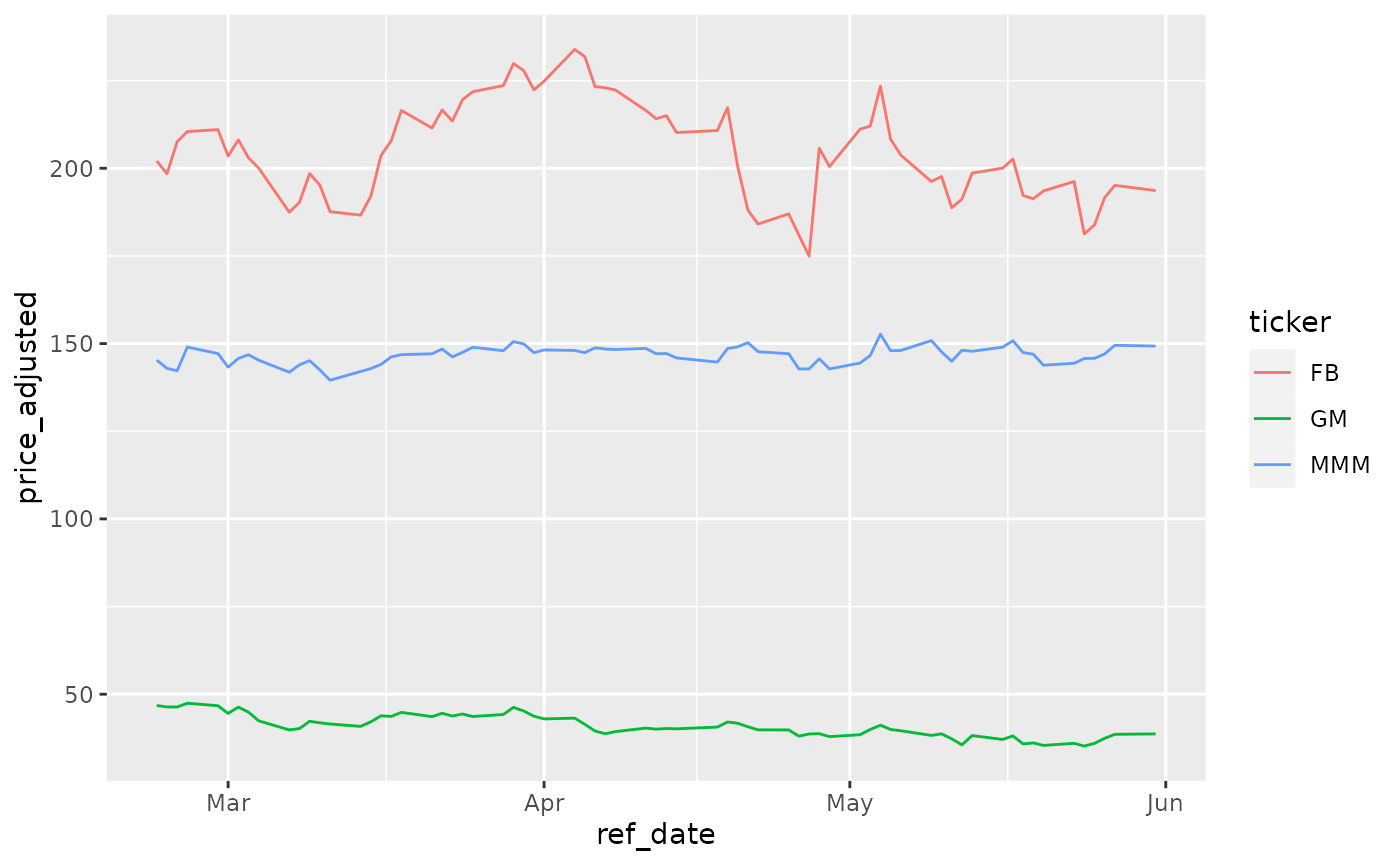
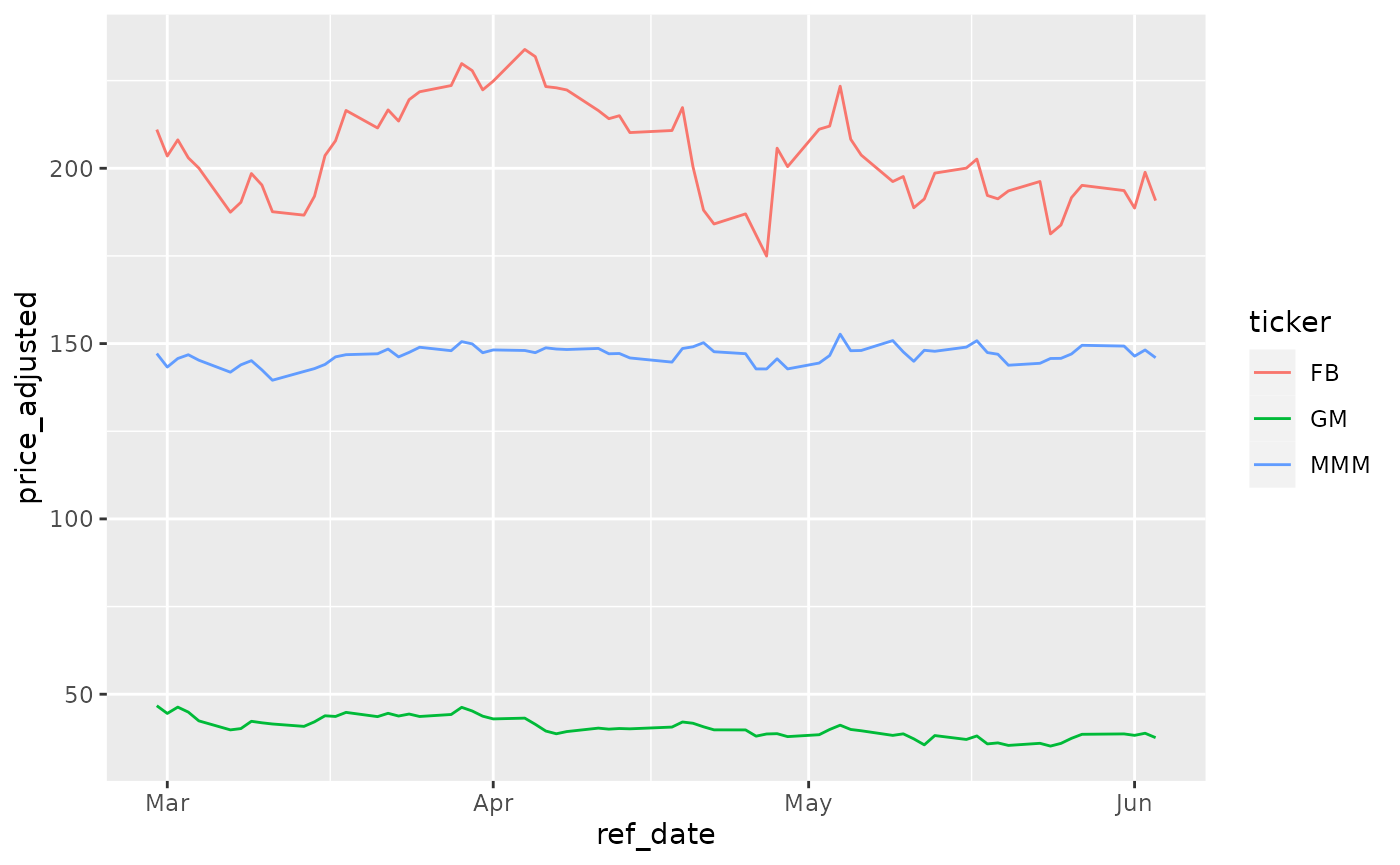
Deploying to gh-pages from @ msperlin/yfR@9765e2a44a16c0cefd1f0ff8df61d747e32fc0b1 🚀

diff --git a/articles/getting-started.html b/articles/getting-started.html
@@ -83,7 +83,7 @@
       <img src="../logo.png" class="logo" alt=""><h1>Getting Started</h1>
                         <h4 data-toc-skip class="author">Marcelo Perlin</h4>
             
-            <h4 data-toc-skip class="date">2022-06-01</h4>
+            <h4 data-toc-skip class="date">2022-06-06</h4>
       
       <small class="dont-index">Source: <a href="https://github.com/msperlin/yfR/blob/HEAD/vignettes/getting-started.Rmd" class="external-link"><code>vignettes/getting-started.Rmd</code></a></small>
       <div class="d-none name"><code>getting-started.Rmd</code></div>
@@ -120,19 +120,19 @@
                 first_date <span class="op">=</span> <span class="va">first_date</span>,
                 last_date <span class="op">=</span> <span class="va">last_date</span><span class="op">)</span></code></pre></div>
 <pre><code><span class="co">## </span></code></pre>
-<pre><code><span class="co">## ── <span style="font-weight: bold;">Running yfR for 1 stocks | 2022-05-02 --&gt; 2022-06-01 (30 days)</span> ──</span></code></pre>
+<pre><code><span class="co">## ── <span style="font-weight: bold;">Running yfR for 1 stocks | 2022-05-07 --&gt; 2022-06-06 (30 days)</span> ──</span></code></pre>
 <pre><code><span class="co">## </span></code></pre>
 <pre><code><span class="co">## <span style="color: #00BBBB;">ℹ</span> Downloading data for benchmark ticker ^GSPC</span></code></pre>
 <pre><code><span class="co">## <span style="color: #00BBBB;">ℹ</span> (1/1) Fetching data for FB</span></code></pre>
 <pre><code><span class="co">## <span style="color: #BBBB00;">!</span>  - not cached</span></code></pre>
 <pre><code><span class="co">## <span style="color: #00BB00;">✔</span>  - cache saved successfully</span></code></pre>
-<pre><code><span class="co">## <span style="color: #00BB00;">✔</span>  - got 21 valid rows (2022-05-02 --&gt; 2022-05-31)</span></code></pre>
-<pre><code><span class="co">## <span style="color: #00BB00;">✔</span>  - got 100% of valid prices -- Looking good!</span></code></pre>
+<pre><code><span class="co">## <span style="color: #00BB00;">✔</span>  - got 19 valid rows (2022-05-09 --&gt; 2022-06-03)</span></code></pre>
+<pre><code><span class="co">## <span style="color: #00BB00;">✔</span>  - got 100% of valid prices -- All OK!</span></code></pre>
 <pre><code><span class="co">## <span style="color: #00BBBB;">ℹ</span> Binding price data</span></code></pre>
 <pre><code><span class="co">## </span></code></pre>
 <pre><code><span class="co">## <span style="color: #00BBBB;">──</span> <span style="font-weight: bold;">Diagnostics</span> <span style="color: #00BBBB;">─────────────────────────────────────────────────────────────────</span></span></code></pre>
-<pre><code><span class="co">## <span style="color: #00BB00;">✔</span> Returned dataframe with 21 rows</span></code></pre>
-<pre><code><span class="co">## <span style="color: #00BB00;">✔</span> Using 6.0 kB at /tmp/RtmptW53SL/yf_cache for cache files</span></code></pre>
+<pre><code><span class="co">## <span style="color: #00BB00;">✔</span> Returned dataframe with 19 rows</span></code></pre>
+<pre><code><span class="co">## <span style="color: #00BB00;">✔</span> Using 5.6 kB at /tmp/RtmpqzBOwF/yf_cache for cache files</span></code></pre>
 <pre><code><span class="co">## <span style="color: #00BBBB;">ℹ</span> Out of 1 tickers, you got 1</span></code></pre>
 <pre><code><span class="co">## <span style="color: #00BB00;">✔</span> You got data on 100% of requested tickers</span></code></pre>
 <div class="sourceCode" id="cb18"><pre class="downlit sourceCode r">
@@ -141,12 +141,12 @@
 <pre><code><span class="co">## <span style="color: #949494;"># A tibble: 6 × 11</span></span>
 <span class="co">##   ticker ref_date   price_open price_high price_low price_close   volume</span>
 <span class="co">##   <span style="color: #949494; font-style: italic;">&lt;chr&gt;</span>  <span style="color: #949494; font-style: italic;">&lt;date&gt;</span>          <span style="color: #949494; font-style: italic;">&lt;dbl&gt;</span>      <span style="color: #949494; font-style: italic;">&lt;dbl&gt;</span>     <span style="color: #949494; font-style: italic;">&lt;dbl&gt;</span>       <span style="color: #949494; font-style: italic;">&lt;dbl&gt;</span>    <span style="color: #949494; font-style: italic;">&lt;dbl&gt;</span></span>
-<span class="co">## <span style="color: #BCBCBC;">1</span> FB     2022-05-02       201.       212.      201.        211. 49<span style="text-decoration: underline;">915</span>300</span>
-<span class="co">## <span style="color: #BCBCBC;">2</span> FB     2022-05-03       210.       215.      208.        212. 41<span style="text-decoration: underline;">556</span>300</span>
-<span class="co">## <span style="color: #BCBCBC;">3</span> FB     2022-05-04       211.       224.      207.        223. 41<span style="text-decoration: underline;">375</span>900</span>
-<span class="co">## <span style="color: #BCBCBC;">4</span> FB     2022-05-05       219.       220.      206.        208. 41<span style="text-decoration: underline;">129</span>200</span>
-<span class="co">## <span style="color: #BCBCBC;">5</span> FB     2022-05-06       207.       209.      201.        204. 34<span style="text-decoration: underline;">733</span>600</span>
-<span class="co">## <span style="color: #BCBCBC;">6</span> FB     2022-05-09       200.       203.      196.        196. 36<span style="text-decoration: underline;">303</span>200</span>
+<span class="co">## <span style="color: #BCBCBC;">1</span> FB     2022-05-09       200.       203.      196.        196. 36<span style="text-decoration: underline;">303</span>200</span>
+<span class="co">## <span style="color: #BCBCBC;">2</span> FB     2022-05-10       200.       203.      194.        198. 34<span style="text-decoration: underline;">452</span>500</span>
+<span class="co">## <span style="color: #BCBCBC;">3</span> FB     2022-05-11       196.       201.      188.        189. 31<span style="text-decoration: underline;">153</span>400</span>
+<span class="co">## <span style="color: #BCBCBC;">4</span> FB     2022-05-12       187.       198.      185.        191. 38<span style="text-decoration: underline;">262</span>200</span>
+<span class="co">## <span style="color: #BCBCBC;">5</span> FB     2022-05-13       193.       200.      191.        199. 24<span style="text-decoration: underline;">549</span>800</span>
+<span class="co">## <span style="color: #BCBCBC;">6</span> FB     2022-05-16       197.       205.      196.        200. 27<span style="text-decoration: underline;">112</span>600</span>
 <span class="co">## <span style="color: #949494;"># … with 4 more variables: price_adjusted &lt;dbl&gt;, ret_adjusted_prices &lt;dbl&gt;,</span></span>
 <span class="co">## <span style="color: #949494;">#   ret_closing_prices &lt;dbl&gt;, cumret_adjusted_prices &lt;dbl&gt;</span></span></code></pre>
 </div>
@@ -165,29 +165,29 @@
                          first_date <span class="op">=</span> <span class="va">first_date</span>,
                          last_date <span class="op">=</span> <span class="va">last_date</span><span class="op">)</span></code></pre></div>
 <pre><code><span class="co">## </span></code></pre>
-<pre><code><span class="co">## ── <span style="font-weight: bold;">Running yfR for 3 stocks | 2022-02-21 --&gt; 2022-06-01 (100 days)</span> ──</span></code></pre>
+<pre><code><span class="co">## ── <span style="font-weight: bold;">Running yfR for 3 stocks | 2022-02-26 --&gt; 2022-06-06 (100 days)</span> ──</span></code></pre>
 <pre><code><span class="co">## </span></code></pre>
 <pre><code><span class="co">## <span style="color: #00BBBB;">ℹ</span> Downloading data for benchmark ticker ^GSPC</span></code></pre>
 <pre><code><span class="co">## <span style="color: #00BBBB;">ℹ</span> (1/3) Fetching data for FB</span></code></pre>
-<pre><code><span class="co">## <span style="color: #00BB00;">✔</span>  - found cache file (2022-05-02 --&gt; 2022-05-31)</span></code></pre>
+<pre><code><span class="co">## <span style="color: #00BB00;">✔</span>  - found cache file (2022-05-09 --&gt; 2022-06-03)</span></code></pre>
 <pre><code><span class="co">## <span style="color: #BBBB00;">!</span>  - need new data (cache doesnt match query)</span></code></pre>
-<pre><code><span class="co">## <span style="color: #00BB00;">✔</span>  - got 69 valid rows (2022-02-22 --&gt; 2022-05-31)</span></code></pre>
-<pre><code><span class="co">## <span style="color: #00BB00;">✔</span>  - got 100% of valid prices -- Good job runner!</span></code></pre>
+<pre><code><span class="co">## <span style="color: #00BB00;">✔</span>  - got 68 valid rows (2022-02-28 --&gt; 2022-06-03)</span></code></pre>
+<pre><code><span class="co">## <span style="color: #00BB00;">✔</span>  - got 100% of valid prices -- Got it!</span></code></pre>
 <pre><code><span class="co">## <span style="color: #00BBBB;">ℹ</span> (2/3) Fetching data for GM</span></code></pre>
 <pre><code><span class="co">## <span style="color: #BBBB00;">!</span>  - not cached</span></code></pre>
 <pre><code><span class="co">## <span style="color: #00BB00;">✔</span>  - cache saved successfully</span></code></pre>
-<pre><code><span class="co">## <span style="color: #00BB00;">✔</span>  - got 69 valid rows (2022-02-22 --&gt; 2022-05-31)</span></code></pre>
-<pre><code><span class="co">## <span style="color: #00BB00;">✔</span>  - got 100% of valid prices -- All OK!</span></code></pre>
+<pre><code><span class="co">## <span style="color: #00BB00;">✔</span>  - got 68 valid rows (2022-02-28 --&gt; 2022-06-03)</span></code></pre>
+<pre><code><span class="co">## <span style="color: #00BB00;">✔</span>  - got 100% of valid prices -- Time for some tea?</span></code></pre>
 <pre><code><span class="co">## <span style="color: #00BBBB;">ℹ</span> (3/3) Fetching data for MMM</span></code></pre>
 <pre><code><span class="co">## <span style="color: #BBBB00;">!</span>  - not cached</span></code></pre>
 <pre><code><span class="co">## <span style="color: #00BB00;">✔</span>  - cache saved successfully</span></code></pre>
-<pre><code><span class="co">## <span style="color: #00BB00;">✔</span>  - got 69 valid rows (2022-02-22 --&gt; 2022-05-31)</span></code></pre>
-<pre><code><span class="co">## <span style="color: #00BB00;">✔</span>  - got 100% of valid prices -- All OK!</span></code></pre>
+<pre><code><span class="co">## <span style="color: #00BB00;">✔</span>  - got 68 valid rows (2022-02-28 --&gt; 2022-06-03)</span></code></pre>
+<pre><code><span class="co">## <span style="color: #00BB00;">✔</span>  - got 100% of valid prices -- Looking good!</span></code></pre>
 <pre><code><span class="co">## <span style="color: #00BBBB;">ℹ</span> Binding price data</span></code></pre>
 <pre><code><span class="co">## </span></code></pre>
 <pre><code><span class="co">## <span style="color: #00BBBB;">──</span> <span style="font-weight: bold;">Diagnostics</span> <span style="color: #00BBBB;">─────────────────────────────────────────────────────────────────</span></span></code></pre>
-<pre><code><span class="co">## <span style="color: #00BB00;">✔</span> Returned dataframe with 207 rows</span></code></pre>
-<pre><code><span class="co">## <span style="color: #00BB00;">✔</span> Using 30.5 kB at /tmp/RtmptW53SL/yf_cache for cache files</span></code></pre>
+<pre><code><span class="co">## <span style="color: #00BB00;">✔</span> Returned dataframe with 204 rows</span></code></pre>
+<pre><code><span class="co">## <span style="color: #00BB00;">✔</span> Using 30.1 kB at /tmp/RtmpqzBOwF/yf_cache for cache files</span></code></pre>
 <pre><code><span class="co">## <span style="color: #00BBBB;">ℹ</span> Out of 3 tickers, you got 3</span></code></pre>
 <pre><code><span class="co">## <span style="color: #00BB00;">✔</span> You got data on 100% of requested tickers</span></code></pre>
 <div class="sourceCode" id="cb47"><pre class="downlit sourceCode r">
@@ -223,19 +223,19 @@
                     freq_data <span class="op">=</span> <span class="st">'daily'</span><span class="op">)</span> <span class="op"><a href="../reference/pipe.html">%&gt;%</a></span>
   <span class="fu"><a href="https://dplyr.tidyverse.org/reference/mutate.html" class="external-link">mutate</a></span><span class="op">(</span>freq <span class="op">=</span> <span class="st">'daily'</span><span class="op">)</span></code></pre></div>
 <pre><code><span class="co">## </span></code></pre>
-<pre><code><span class="co">## ── <span style="font-weight: bold;">Running yfR for 1 stocks | 2010-01-01 --&gt; 2022-06-01 (4534 days)</span> ──</span></code></pre>
+<pre><code><span class="co">## ── <span style="font-weight: bold;">Running yfR for 1 stocks | 2010-01-01 --&gt; 2022-06-06 (4539 days)</span> ──</span></code></pre>
 <pre><code><span class="co">## </span></code></pre>
 <pre><code><span class="co">## <span style="color: #00BBBB;">ℹ</span> Downloading data for benchmark ticker ^GSPC</span></code></pre>
 <pre><code><span class="co">## <span style="color: #00BBBB;">ℹ</span> (1/1) Fetching data for GE</span></code></pre>
 <pre><code><span class="co">## <span style="color: #BBBB00;">!</span>  - not cached</span></code></pre>
 <pre><code><span class="co">## <span style="color: #00BB00;">✔</span>  - cache saved successfully</span></code></pre>
-<pre><code><span class="co">## <span style="color: #00BB00;">✔</span>  - got 3124 valid rows (2010-01-04 --&gt; 2022-05-31)</span></code></pre>
-<pre><code><span class="co">## <span style="color: #00BB00;">✔</span>  - got 100% of valid prices -- Youre doing good!</span></code></pre>
+<pre><code><span class="co">## <span style="color: #00BB00;">✔</span>  - got 3127 valid rows (2010-01-04 --&gt; 2022-06-03)</span></code></pre>
+<pre><code><span class="co">## <span style="color: #00BB00;">✔</span>  - got 100% of valid prices -- Time for some tea?</span></code></pre>
 <pre><code><span class="co">## <span style="color: #00BBBB;">ℹ</span> Binding price data</span></code></pre>
 <pre><code><span class="co">## </span></code></pre>
 <pre><code><span class="co">## <span style="color: #00BBBB;">──</span> <span style="font-weight: bold;">Diagnostics</span> <span style="color: #00BBBB;">─────────────────────────────────────────────────────────────────</span></span></code></pre>
-<pre><code><span class="co">## <span style="color: #00BB00;">✔</span> Returned dataframe with 3124 rows</span></code></pre>
-<pre><code><span class="co">## <span style="color: #00BB00;">✔</span> Using 642.9 kB at /tmp/RtmptW53SL/yf_cache for cache files</span></code></pre>
+<pre><code><span class="co">## <span style="color: #00BB00;">✔</span> Returned dataframe with 3127 rows</span></code></pre>
+<pre><code><span class="co">## <span style="color: #00BB00;">✔</span> Using 643.2 kB at /tmp/RtmpqzBOwF/yf_cache for cache files</span></code></pre>
 <pre><code><span class="co">## <span style="color: #00BBBB;">ℹ</span> Out of 1 tickers, you got 1</span></code></pre>
 <pre><code><span class="co">## <span style="color: #00BB00;">✔</span> You got data on 100% of requested tickers</span></code></pre>
 <div class="sourceCode" id="cb69"><pre class="downlit sourceCode r">
@@ -244,18 +244,18 @@
                     freq_data <span class="op">=</span> <span class="st">'weekly'</span><span class="op">)</span> <span class="op"><a href="../reference/pipe.html">%&gt;%</a></span>
   <span class="fu"><a href="https://dplyr.tidyverse.org/reference/mutate.html" class="external-link">mutate</a></span><span class="op">(</span>freq <span class="op">=</span> <span class="st">'weekly'</span><span class="op">)</span></code></pre></div>
 <pre><code><span class="co">## </span></code></pre>
-<pre><code><span class="co">## ── <span style="font-weight: bold;">Running yfR for 1 stocks | 2010-01-01 --&gt; 2022-06-01 (4534 days)</span> ──</span></code></pre>
+<pre><code><span class="co">## ── <span style="font-weight: bold;">Running yfR for 1 stocks | 2010-01-01 --&gt; 2022-06-06 (4539 days)</span> ──</span></code></pre>
 <pre><code><span class="co">## </span></code></pre>
 <pre><code><span class="co">## <span style="color: #00BBBB;">ℹ</span> Downloading data for benchmark ticker ^GSPC</span></code></pre>
 <pre><code><span class="co">## <span style="color: #00BBBB;">ℹ</span> (1/1) Fetching data for GE</span></code></pre>
-<pre><code><span class="co">## <span style="color: #00BB00;">✔</span>  - found cache file (2010-01-04 --&gt; 2022-05-31)</span></code></pre>
-<pre><code><span class="co">## <span style="color: #00BB00;">✔</span>  - got 3124 valid rows (2010-01-04 --&gt; 2022-05-31)</span></code></pre>
-<pre><code><span class="co">## <span style="color: #00BB00;">✔</span>  - got 100% of valid prices -- Got it!</span></code></pre>
+<pre><code><span class="co">## <span style="color: #00BB00;">✔</span>  - found cache file (2010-01-04 --&gt; 2022-06-03)</span></code></pre>
+<pre><code><span class="co">## <span style="color: #00BB00;">✔</span>  - got 3127 valid rows (2010-01-04 --&gt; 2022-06-03)</span></code></pre>
+<pre><code><span class="co">## <span style="color: #00BB00;">✔</span>  - got 100% of valid prices -- All OK!</span></code></pre>
 <pre><code><span class="co">## <span style="color: #00BBBB;">ℹ</span> Binding price data</span></code></pre>
 <pre><code><span class="co">## </span></code></pre>
 <pre><code><span class="co">## <span style="color: #00BBBB;">──</span> <span style="font-weight: bold;">Diagnostics</span> <span style="color: #00BBBB;">─────────────────────────────────────────────────────────────────</span></span></code></pre>
 <pre><code><span class="co">## <span style="color: #00BB00;">✔</span> Returned dataframe with 648 rows</span></code></pre>
-<pre><code><span class="co">## <span style="color: #00BB00;">✔</span> Using 642.8 kB at /tmp/RtmptW53SL/yf_cache for cache files</span></code></pre>
+<pre><code><span class="co">## <span style="color: #00BB00;">✔</span> Using 643.1 kB at /tmp/RtmpqzBOwF/yf_cache for cache files</span></code></pre>
 <pre><code><span class="co">## <span style="color: #00BBBB;">ℹ</span> Out of 1 tickers, you got 1</span></code></pre>
 <pre><code><span class="co">## <span style="color: #00BB00;">✔</span> You got data on 100% of requested tickers</span></code></pre>
 <div class="sourceCode" id="cb85"><pre class="downlit sourceCode r">
@@ -264,18 +264,18 @@
                      freq_data <span class="op">=</span> <span class="st">'monthly'</span><span class="op">)</span> <span class="op"><a href="../reference/pipe.html">%&gt;%</a></span>
   <span class="fu"><a href="https://dplyr.tidyverse.org/reference/mutate.html" class="external-link">mutate</a></span><span class="op">(</span>freq <span class="op">=</span> <span class="st">'monthly'</span><span class="op">)</span></code></pre></div>
 <pre><code><span class="co">## </span></code></pre>
-<pre><code><span class="co">## ── <span style="font-weight: bold;">Running yfR for 1 stocks | 2010-01-01 --&gt; 2022-06-01 (4534 days)</span> ──</span></code></pre>
+<pre><code><span class="co">## ── <span style="font-weight: bold;">Running yfR for 1 stocks | 2010-01-01 --&gt; 2022-06-06 (4539 days)</span> ──</span></code></pre>
 <pre><code><span class="co">## </span></code></pre>
 <pre><code><span class="co">## <span style="color: #00BBBB;">ℹ</span> Downloading data for benchmark ticker ^GSPC</span></code></pre>
 <pre><code><span class="co">## <span style="color: #00BBBB;">ℹ</span> (1/1) Fetching data for GE</span></code></pre>
-<pre><code><span class="co">## <span style="color: #00BB00;">✔</span>  - found cache file (2010-01-04 --&gt; 2022-05-31)</span></code></pre>
-<pre><code><span class="co">## <span style="color: #00BB00;">✔</span>  - got 3124 valid rows (2010-01-04 --&gt; 2022-05-31)</span></code></pre>
+<pre><code><span class="co">## <span style="color: #00BB00;">✔</span>  - found cache file (2010-01-04 --&gt; 2022-06-03)</span></code></pre>
+<pre><code><span class="co">## <span style="color: #00BB00;">✔</span>  - got 3127 valid rows (2010-01-04 --&gt; 2022-06-03)</span></code></pre>
 <pre><code><span class="co">## <span style="color: #00BB00;">✔</span>  - got 100% of valid prices -- All OK!</span></code></pre>
 <pre><code><span class="co">## <span style="color: #00BBBB;">ℹ</span> Binding price data</span></code></pre>
 <pre><code><span class="co">## </span></code></pre>
 <pre><code><span class="co">## <span style="color: #00BBBB;">──</span> <span style="font-weight: bold;">Diagnostics</span> <span style="color: #00BBBB;">─────────────────────────────────────────────────────────────────</span></span></code></pre>
-<pre><code><span class="co">## <span style="color: #00BB00;">✔</span> Returned dataframe with 149 rows</span></code></pre>
-<pre><code><span class="co">## <span style="color: #00BB00;">✔</span> Using 642.8 kB at /tmp/RtmptW53SL/yf_cache for cache files</span></code></pre>
+<pre><code><span class="co">## <span style="color: #00BB00;">✔</span> Returned dataframe with 150 rows</span></code></pre>
+<pre><code><span class="co">## <span style="color: #00BB00;">✔</span> Using 643.1 kB at /tmp/RtmpqzBOwF/yf_cache for cache files</span></code></pre>
 <pre><code><span class="co">## <span style="color: #00BBBB;">ℹ</span> Out of 1 tickers, you got 1</span></code></pre>
 <pre><code><span class="co">## <span style="color: #00BB00;">✔</span> You got data on 100% of requested tickers</span></code></pre>
 <div class="sourceCode" id="cb101"><pre class="downlit sourceCode r">
@@ -284,18 +284,18 @@
                     freq_data <span class="op">=</span> <span class="st">'yearly'</span><span class="op">)</span> <span class="op"><a href="../reference/pipe.html">%&gt;%</a></span>
   <span class="fu"><a href="https://dplyr.tidyverse.org/reference/mutate.html" class="external-link">mutate</a></span><span class="op">(</span>freq <span class="op">=</span> <span class="st">'yearly'</span><span class="op">)</span></code></pre></div>
 <pre><code><span class="co">## </span></code></pre>
-<pre><code><span class="co">## ── <span style="font-weight: bold;">Running yfR for 1 stocks | 2010-01-01 --&gt; 2022-06-01 (4534 days)</span> ──</span></code></pre>
+<pre><code><span class="co">## ── <span style="font-weight: bold;">Running yfR for 1 stocks | 2010-01-01 --&gt; 2022-06-06 (4539 days)</span> ──</span></code></pre>
 <pre><code><span class="co">## </span></code></pre>
 <pre><code><span class="co">## <span style="color: #00BBBB;">ℹ</span> Downloading data for benchmark ticker ^GSPC</span></code></pre>
 <pre><code><span class="co">## <span style="color: #00BBBB;">ℹ</span> (1/1) Fetching data for GE</span></code></pre>
-<pre><code><span class="co">## <span style="color: #00BB00;">✔</span>  - found cache file (2010-01-04 --&gt; 2022-05-31)</span></code></pre>
-<pre><code><span class="co">## <span style="color: #00BB00;">✔</span>  - got 3124 valid rows (2010-01-04 --&gt; 2022-05-31)</span></code></pre>
-<pre><code><span class="co">## <span style="color: #00BB00;">✔</span>  - got 100% of valid prices -- Got it!</span></code></pre>
+<pre><code><span class="co">## <span style="color: #00BB00;">✔</span>  - found cache file (2010-01-04 --&gt; 2022-06-03)</span></code></pre>
+<pre><code><span class="co">## <span style="color: #00BB00;">✔</span>  - got 3127 valid rows (2010-01-04 --&gt; 2022-06-03)</span></code></pre>
+<pre><code><span class="co">## <span style="color: #00BB00;">✔</span>  - got 100% of valid prices -- Boa!</span></code></pre>
 <pre><code><span class="co">## <span style="color: #00BBBB;">ℹ</span> Binding price data</span></code></pre>
 <pre><code><span class="co">## </span></code></pre>
 <pre><code><span class="co">## <span style="color: #00BBBB;">──</span> <span style="font-weight: bold;">Diagnostics</span> <span style="color: #00BBBB;">─────────────────────────────────────────────────────────────────</span></span></code></pre>
 <pre><code><span class="co">## <span style="color: #00BB00;">✔</span> Returned dataframe with 13 rows</span></code></pre>
-<pre><code><span class="co">## <span style="color: #00BB00;">✔</span> Using 642.8 kB at /tmp/RtmptW53SL/yf_cache for cache files</span></code></pre>
+<pre><code><span class="co">## <span style="color: #00BB00;">✔</span> Using 643.1 kB at /tmp/RtmpqzBOwF/yf_cache for cache files</span></code></pre>
 <pre><code><span class="co">## <span style="color: #00BBBB;">ℹ</span> Out of 1 tickers, you got 1</span></code></pre>
 <pre><code><span class="co">## <span style="color: #00BB00;">✔</span> You got data on 100% of requested tickers</span></code></pre>
 <div class="sourceCode" id="cb117"><pre class="downlit sourceCode r">
@@ -333,44 +333,44 @@
                          first_date <span class="op">=</span> <span class="va">first_date</span>,
                          last_date <span class="op">=</span> <span class="va">last_date</span><span class="op">)</span></code></pre></div>
 <pre><code><span class="co">## </span></code></pre>
-<pre><code><span class="co">## ── <span style="font-weight: bold;">Running yfR for 3 stocks | 2022-02-21 --&gt; 2022-06-01 (100 days)</span> ──</span></code></pre>
+<pre><code><span class="co">## ── <span style="font-weight: bold;">Running yfR for 3 stocks | 2022-02-26 --&gt; 2022-06-06 (100 days)</span> ──</span></code></pre>
 <pre><code><span class="co">## </span></code></pre>
 <pre><code><span class="co">## <span style="color: #00BBBB;">ℹ</span> Downloading data for benchmark ticker ^GSPC</span></code></pre>
 <pre><code><span class="co">## <span style="color: #00BBBB;">ℹ</span> (1/3) Fetching data for FB</span></code></pre>
-<pre><code><span class="co">## <span style="color: #00BB00;">✔</span>  - found cache file (2022-02-22 --&gt; 2022-05-31)</span></code></pre>
-<pre><code><span class="co">## <span style="color: #00BB00;">✔</span>  - got 69 valid rows (2022-02-22 --&gt; 2022-05-31)</span></code></pre>
-<pre><code><span class="co">## <span style="color: #00BB00;">✔</span>  - got 100% of valid prices -- Nice!</span></code></pre>
+<pre><code><span class="co">## <span style="color: #00BB00;">✔</span>  - found cache file (2022-02-28 --&gt; 2022-06-03)</span></code></pre>
+<pre><code><span class="co">## <span style="color: #00BB00;">✔</span>  - got 68 valid rows (2022-02-28 --&gt; 2022-06-03)</span></code></pre>
+<pre><code><span class="co">## <span style="color: #00BB00;">✔</span>  - got 100% of valid prices -- Got it!</span></code></pre>
 <pre><code><span class="co">## <span style="color: #00BBBB;">ℹ</span> (2/3) Fetching data for GM</span></code></pre>
-<pre><code><span class="co">## <span style="color: #00BB00;">✔</span>  - found cache file (2022-02-22 --&gt; 2022-05-31)</span></code></pre>
-<pre><code><span class="co">## <span style="color: #00BB00;">✔</span>  - got 69 valid rows (2022-02-22 --&gt; 2022-05-31)</span></code></pre>
-<pre><code><span class="co">## <span style="color: #00BB00;">✔</span>  - got 100% of valid prices -- Good stuff!</span></code></pre>
+<pre><code><span class="co">## <span style="color: #00BB00;">✔</span>  - found cache file (2022-02-28 --&gt; 2022-06-03)</span></code></pre>
+<pre><code><span class="co">## <span style="color: #00BB00;">✔</span>  - got 68 valid rows (2022-02-28 --&gt; 2022-06-03)</span></code></pre>
+<pre><code><span class="co">## <span style="color: #00BB00;">✔</span>  - got 100% of valid prices -- Got it!</span></code></pre>
 <pre><code><span class="co">## <span style="color: #00BBBB;">ℹ</span> (3/3) Fetching data for MMM</span></code></pre>
-<pre><code><span class="co">## <span style="color: #00BB00;">✔</span>  - found cache file (2022-02-22 --&gt; 2022-05-31)</span></code></pre>
-<pre><code><span class="co">## <span style="color: #00BB00;">✔</span>  - got 69 valid rows (2022-02-22 --&gt; 2022-05-31)</span></code></pre>
-<pre><code><span class="co">## <span style="color: #00BB00;">✔</span>  - got 100% of valid prices -- All OK!</span></code></pre>
+<pre><code><span class="co">## <span style="color: #00BB00;">✔</span>  - found cache file (2022-02-28 --&gt; 2022-06-03)</span></code></pre>
+<pre><code><span class="co">## <span style="color: #00BB00;">✔</span>  - got 68 valid rows (2022-02-28 --&gt; 2022-06-03)</span></code></pre>
+<pre><code><span class="co">## <span style="color: #00BB00;">✔</span>  - got 100% of valid prices -- Good stuff!</span></code></pre>
 <pre><code><span class="co">## <span style="color: #00BBBB;">ℹ</span> Binding price data</span></code></pre>
 <pre><code><span class="co">## </span></code></pre>
 <pre><code><span class="co">## <span style="color: #00BBBB;">──</span> <span style="font-weight: bold;">Diagnostics</span> <span style="color: #00BBBB;">─────────────────────────────────────────────────────────────────</span></span></code></pre>
-<pre><code><span class="co">## <span style="color: #00BB00;">✔</span> Returned dataframe with 207 rows</span></code></pre>
-<pre><code><span class="co">## <span style="color: #00BB00;">✔</span> Using 642.5 kB at /tmp/RtmptW53SL/yf_cache for cache files</span></code></pre>
+<pre><code><span class="co">## <span style="color: #00BB00;">✔</span> Returned dataframe with 204 rows</span></code></pre>
+<pre><code><span class="co">## <span style="color: #00BB00;">✔</span> Using 642.8 kB at /tmp/RtmpqzBOwF/yf_cache for cache files</span></code></pre>
 <pre><code><span class="co">## <span style="color: #00BBBB;">ℹ</span> Out of 3 tickers, you got 3</span></code></pre>
 <pre><code><span class="co">## <span style="color: #00BB00;">✔</span> You got data on 100% of requested tickers</span></code></pre>
 <div class="sourceCode" id="cb142"><pre class="downlit sourceCode r">
 <code class="sourceCode R"><span class="fu"><a href="https://rdrr.io/r/base/print.html" class="external-link">print</a></span><span class="op">(</span><span class="va">df_yf_multiple</span><span class="op">)</span></code></pre></div>
-<pre><code><span class="co">## <span style="color: #949494;"># A tibble: 207 × 11</span></span>
+<pre><code><span class="co">## <span style="color: #949494;"># A tibble: 204 × 11</span></span>
 <span class="co">##    ticker ref_date   price_open price_high price_low price_close   volume</span>
 <span class="co">##  <span style="color: #BCBCBC;">*</span> <span style="color: #949494; font-style: italic;">&lt;chr&gt;</span>  <span style="color: #949494; font-style: italic;">&lt;date&gt;</span>          <span style="color: #949494; font-style: italic;">&lt;dbl&gt;</span>      <span style="color: #949494; font-style: italic;">&lt;dbl&gt;</span>     <span style="color: #949494; font-style: italic;">&lt;dbl&gt;</span>       <span style="color: #949494; font-style: italic;">&lt;dbl&gt;</span>    <span style="color: #949494; font-style: italic;">&lt;dbl&gt;</span></span>
-<span class="co">## <span style="color: #BCBCBC;"> 1</span> FB     2022-02-22       202.       207.      200.        202. 39<span style="text-decoration: underline;">852</span>400</span>
-<span class="co">## <span style="color: #BCBCBC;"> 2</span> FB     2022-02-23       204.       207.      198.        198. 44<span style="text-decoration: underline;">481</span>400</span>
-<span class="co">## <span style="color: #BCBCBC;"> 3</span> FB     2022-02-24       191.       208.      190.        208. 49<span style="text-decoration: underline;">957</span>200</span>
-<span class="co">## <span style="color: #BCBCBC;"> 4</span> FB     2022-02-25       205.       211.      203.        210. 37<span style="text-decoration: underline;">627</span>600</span>
-<span class="co">## <span style="color: #BCBCBC;"> 5</span> FB     2022-02-28       208.       213.      207.        211. 34<span style="text-decoration: underline;">239</span>800</span>
-<span class="co">## <span style="color: #BCBCBC;"> 6</span> FB     2022-03-01       210.       212.      202.        203. 27<span style="text-decoration: underline;">094</span>900</span>
-<span class="co">## <span style="color: #BCBCBC;"> 7</span> FB     2022-03-02       205.       209.      202.        208. 29<span style="text-decoration: underline;">452</span>100</span>
-<span class="co">## <span style="color: #BCBCBC;"> 8</span> FB     2022-03-03       209.       209.      201.        203. 27<span style="text-decoration: underline;">263</span>500</span>
-<span class="co">## <span style="color: #BCBCBC;"> 9</span> FB     2022-03-04       202.       206.      199.        200. 32<span style="text-decoration: underline;">130</span>900</span>
-<span class="co">## <span style="color: #BCBCBC;">10</span> FB     2022-03-07       201.       201.      187.        187. 38<span style="text-decoration: underline;">560</span>600</span>
-<span class="co">## <span style="color: #949494;"># … with 197 more rows, and 4 more variables: price_adjusted &lt;dbl&gt;,</span></span>
+<span class="co">## <span style="color: #BCBCBC;"> 1</span> FB     2022-02-28       208.       213.      207.        211. 34<span style="text-decoration: underline;">239</span>800</span>
+<span class="co">## <span style="color: #BCBCBC;"> 2</span> FB     2022-03-01       210.       212.      202.        203. 27<span style="text-decoration: underline;">094</span>900</span>
+<span class="co">## <span style="color: #BCBCBC;"> 3</span> FB     2022-03-02       205.       209.      202.        208. 29<span style="text-decoration: underline;">452</span>100</span>
+<span class="co">## <span style="color: #BCBCBC;"> 4</span> FB     2022-03-03       209.       209.      201.        203. 27<span style="text-decoration: underline;">263</span>500</span>
+<span class="co">## <span style="color: #BCBCBC;"> 5</span> FB     2022-03-04       202.       206.      199.        200. 32<span style="text-decoration: underline;">130</span>900</span>
+<span class="co">## <span style="color: #BCBCBC;"> 6</span> FB     2022-03-07       201.       201.      187.        187. 38<span style="text-decoration: underline;">560</span>600</span>
+<span class="co">## <span style="color: #BCBCBC;"> 7</span> FB     2022-03-08       188.       197.      186.        190. 37<span style="text-decoration: underline;">508</span>100</span>
+<span class="co">## <span style="color: #BCBCBC;"> 8</span> FB     2022-03-09       196.       199.      194.        198. 31<span style="text-decoration: underline;">894</span>700</span>
+<span class="co">## <span style="color: #BCBCBC;"> 9</span> FB     2022-03-10       195.       196.      191.        195. 24<span style="text-decoration: underline;">853</span>000</span>
+<span class="co">## <span style="color: #BCBCBC;">10</span> FB     2022-03-11       193.       194.      187.        188. 34<span style="text-decoration: underline;">694</span>500</span>
+<span class="co">## <span style="color: #949494;"># … with 194 more rows, and 4 more variables: price_adjusted &lt;dbl&gt;,</span></span>
 <span class="co">## <span style="color: #949494;">#   ret_adjusted_prices &lt;dbl&gt;, ret_closing_prices &lt;dbl&gt;,</span></span>
 <span class="co">## <span style="color: #949494;">#   cumret_adjusted_prices &lt;dbl&gt;</span></span></code></pre>
 <div class="sourceCode" id="cb144"><pre class="downlit sourceCode r">
@@ -386,12 +386,12 @@
 <pre><code><span class="co">## <span style="color: #949494;"># A tibble: 6 × 4</span></span>
 <span class="co">##   ref_date      FB    GM   MMM</span>
 <span class="co">##   <span style="color: #949494; font-style: italic;">&lt;date&gt;</span>     <span style="color: #949494; font-style: italic;">&lt;dbl&gt;</span> <span style="color: #949494; font-style: italic;">&lt;dbl&gt;</span> <span style="color: #949494; font-style: italic;">&lt;dbl&gt;</span></span>
-<span class="co">## <span style="color: #BCBCBC;">1</span> 2022-02-22  202.  46.8  145.</span>
-<span class="co">## <span style="color: #BCBCBC;">2</span> 2022-02-23  198.  46.4  143.</span>
-<span class="co">## <span style="color: #BCBCBC;">3</span> 2022-02-24  208.  46.3  142.</span>
-<span class="co">## <span style="color: #BCBCBC;">4</span> 2022-02-25  210.  47.4  149.</span>
-<span class="co">## <span style="color: #BCBCBC;">5</span> 2022-02-28  211.  46.7  147.</span>
-<span class="co">## <span style="color: #BCBCBC;">6</span> 2022-03-01  203.  44.5  143.</span></code></pre>
+<span class="co">## <span style="color: #BCBCBC;">1</span> 2022-02-28  211.  46.7  147.</span>
+<span class="co">## <span style="color: #BCBCBC;">2</span> 2022-03-01  203.  44.5  143.</span>
+<span class="co">## <span style="color: #BCBCBC;">3</span> 2022-03-02  208.  46.3  146.</span>
+<span class="co">## <span style="color: #BCBCBC;">4</span> 2022-03-03  203.  44.9  147.</span>
+<span class="co">## <span style="color: #BCBCBC;">5</span> 2022-03-04  200.  42.4  145.</span>
+<span class="co">## <span style="color: #BCBCBC;">6</span> 2022-03-07  187.  39.8  142.</span></code></pre>
 </div>
 </div>
   </main><aside class="col-md-3"><nav id="toc"><h2>On this page</h2>

diff --git a/reference/yf_get_default_cache_folder.html b/reference/yf_get_default_cache_folder.html
@@ -70,7 +70,7 @@
     <div class="section level2">
     <h2 id="ref-examples">Examples<a class="anchor" aria-label="anchor" href="#ref-examples"></a></h2>
     <div class="sourceCode"><pre class="sourceCode r"><code><span class="r-in"><span class="fu"><a href="https://rdrr.io/r/base/print.html" class="external-link">print</a></span><span class="op">(</span><span class="fu">yf_get_default_cache_folder</span><span class="op">(</span><span class="op">)</span><span class="op">)</span></span>
-<span class="r-out co"><span class="r-pr">#&gt;</span> [1] "/tmp/RtmpiyuAUJ/yf_cache"</span>
+<span class="r-out co"><span class="r-pr">#&gt;</span> [1] "/tmp/Rtmple3FjH/yf_cache"</span>
 </code></pre></div>
     </div>
   </main><aside class="col-md-3"><nav id="toc"><h2>On this page</h2>

diff --git a/articles/diff-batchgetsymbols.html b/articles/diff-batchgetsymbols.html
@@ -83,7 +83,7 @@
       <img src="../logo.png" class="logo" alt=""><h1>yfR and BatchGetSymbols</h1>
                         <h4 data-toc-skip class="author">Marcelo Perlin</h4>
             
-            <h4 data-toc-skip class="date">2022-06-01</h4>
+            <h4 data-toc-skip class="date">2022-06-06</h4>
       
       <small class="dont-index">Source: <a href="https://github.com/msperlin/yfR/blob/HEAD/vignettes/diff-batchgetsymbols.Rmd" class="external-link"><code>vignettes/diff-batchgetsymbols.Rmd</code></a></small>
       <div class="d-none name"><code>diff-batchgetsymbols.Rmd</code></div>

diff --git a/articles/using-collections.html b/articles/using-collections.html
@@ -83,7 +83,7 @@
       <img src="../logo.png" class="logo" alt=""><h1>Using Collections</h1>
                         <h4 data-toc-skip class="author">Marcelo Perlin</h4>
             
-            <h4 data-toc-skip class="date">2022-06-01</h4>
+            <h4 data-toc-skip class="date">2022-06-06</h4>
       
       <small class="dont-index">Source: <a href="https://github.com/msperlin/yfR/blob/HEAD/vignettes/using-collections.Rmd" class="external-link"><code>vignettes/using-collections.Rmd</code></a></small>
       <div class="d-none name"><code>using-collections.Rmd</code></div>
